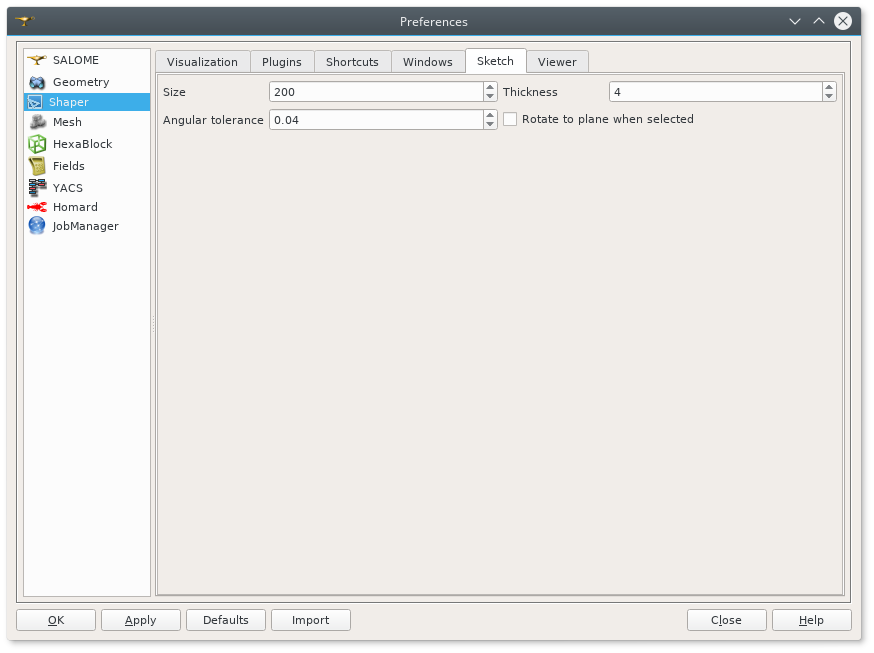
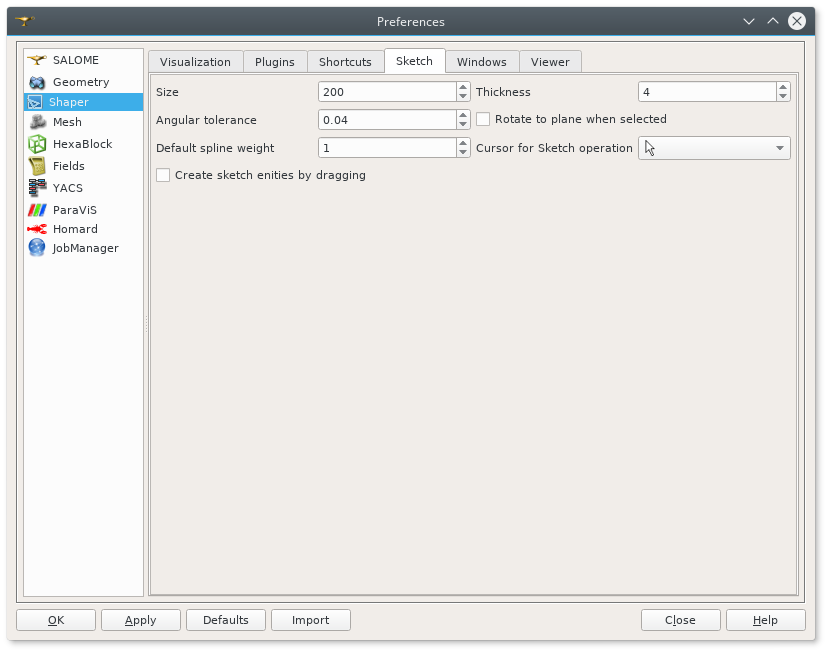
Provide help description for new items of sketch page in preferences.

diff --git a/doc/gui/Introduction.rst b/doc/gui/Introduction.rst
@@ -625,6 +625,9 @@ Sketch tab defines properties of coordinate planes shown for selection of sketch
 - **Thickness**  defines thickness of coordinate plane borders; 
 - **Rotate to plane when selected** check-box turns on/off automatic switch the viewer to the top view for the selected sketch plane.  
 - **Angular tolerance** defines defines an angular tolerance for automatic creation of horizontal and vertical constraints;
+- **Default spline weight** defines default weight for B-spline nodes during creation. The default value can be changed by editing of the spline;
+- **Cursor for sketch operation** defines a cursor which indicates a launched sketcher sub-operation.
+- **Create sketch entities by dragging** defines a style of sketche etities creation. It concerns creation of lines, rectangles, circles, arcs, ellipses, elliptic arcs. If it is switched ON then points of objects has to be defined by mouse press - mouse move - mouse rellease. Otherwise every point of an object has to be defined by mouse click;
 
    
 .. _viewer_preferences:
